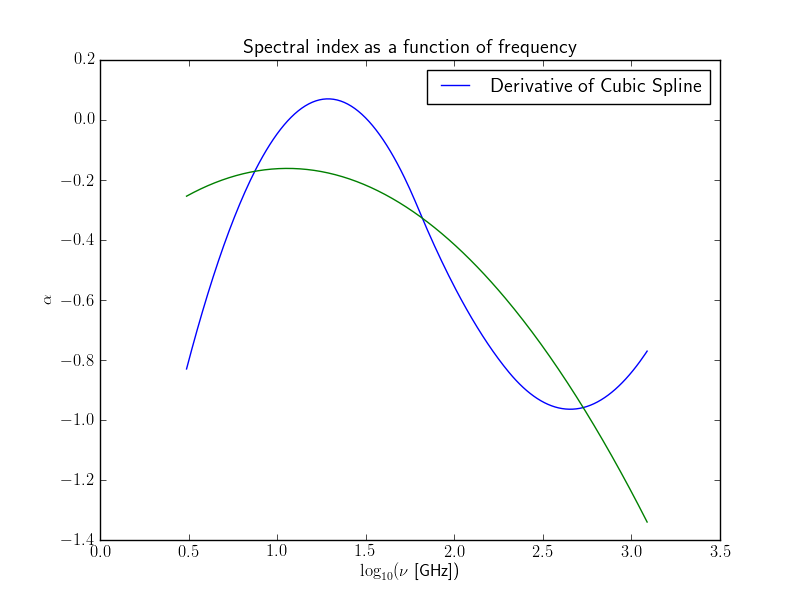
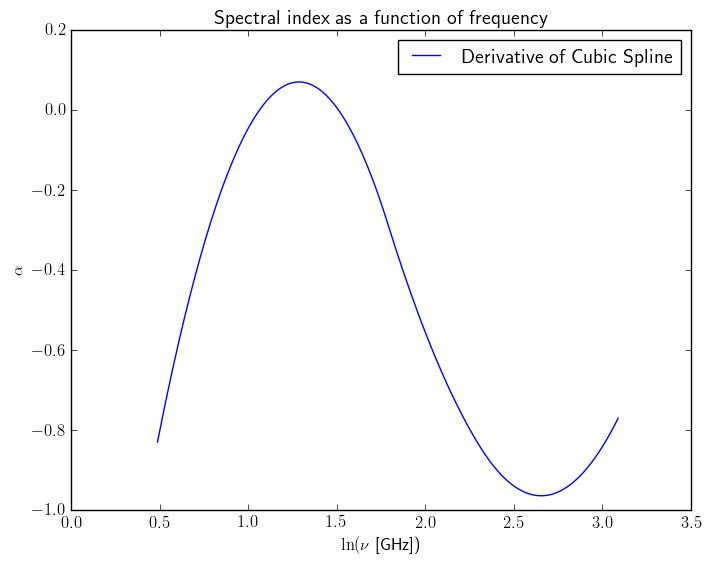
new plots

diff --git a/plotter.py b/plotter.py
@@ -30,23 +30,23 @@ ax1.errorbar(np.log(fluxes[:,0]),np.log(fluxes[:,1]),yerr=np.multiply(np.divide(
 #print(xspline)
 #print(spline(xspline))
 ax1.plot(xspline,spline(xspline))
-ax1.plot(xspline,uspline(xspline))
-ax1.plot(x1,p1(x1), x2, p2(x2))
+#ax1.plot(xspline,uspline(xspline))
+#ax1.plot(x1,p1(x1), x2, p2(x2))
 ax1.set_title(r"Continuum Spectrum")
-ax1.set_xlabel(r"$\log_{e}(\nu$ [GHz])")
-ax1.set_ylabel(r"$\log_{e}$(Flux Density [$\mu$Jy])")
+ax1.set_xlabel(r"$\ln(\nu$ [GHz])")
+ax1.set_ylabel(r"$\ln$(Flux Density [$\mu$Jy])")
 ax1.legend(["Cubic Spline","Measured Flux Density"], loc='best')
-fig1.savefig('fluxVsFreq.png')#, bbox_inches='tight')
+fig1.savefig('fluxVsFreq.png', bbox_inches='tight')
 #plt.legend()
 #plt.show()
 
 fig2 = plt.figure()
 ax2 = fig2.add_subplot(111)
 ax2.plot(xspline,spline.derivative(1)(xspline))
-ax2.plot(xspline,uspline.derivative()(xspline))
+#ax2.plot(xspline,uspline.derivative()(xspline))
 ax2.set_title(r"Spectral index as a function of frequency")
-ax2.set_xlabel(r"$\log_{10}(\nu$ [GHz])")
+ax2.set_xlabel(r"$\ln(\nu$ [GHz])")
 ax2.set_ylabel(r"$\alpha$")
 ax2.legend(["Derivative of Cubic Spline"], loc='best')
-fig2.savefig('spectral index.png')#, bbox_inches='tight')
+fig2.savefig('spectral index.png', bbox_inches='tight')
 plt.show()
